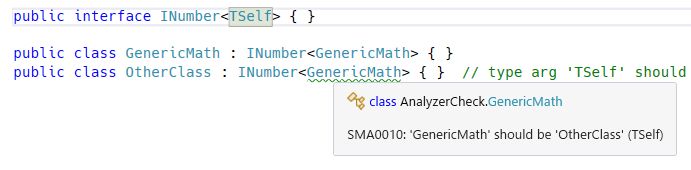
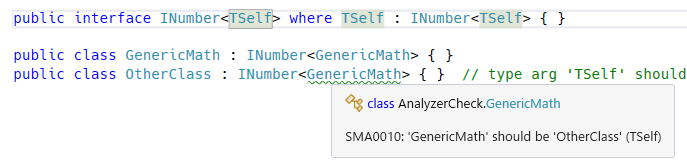
docs: screenshot

diff --git a/src/AnalyzerCheck/ForScreenshot.cs b/src/AnalyzerCheck/ForScreenshot.cs
@@ -56,7 +56,7 @@ public class UnderliningTest
 
 
 
-public interface INumber<TSelf> { }
+public interface INumber<TSelf> where TSelf : INumber<TSelf> { }
 
 public class GenericMath : INumber<GenericMath> { }
 public class OtherClass : INumber<GenericMath> { }  // type arg 'TSelf' should be pointing to itself
